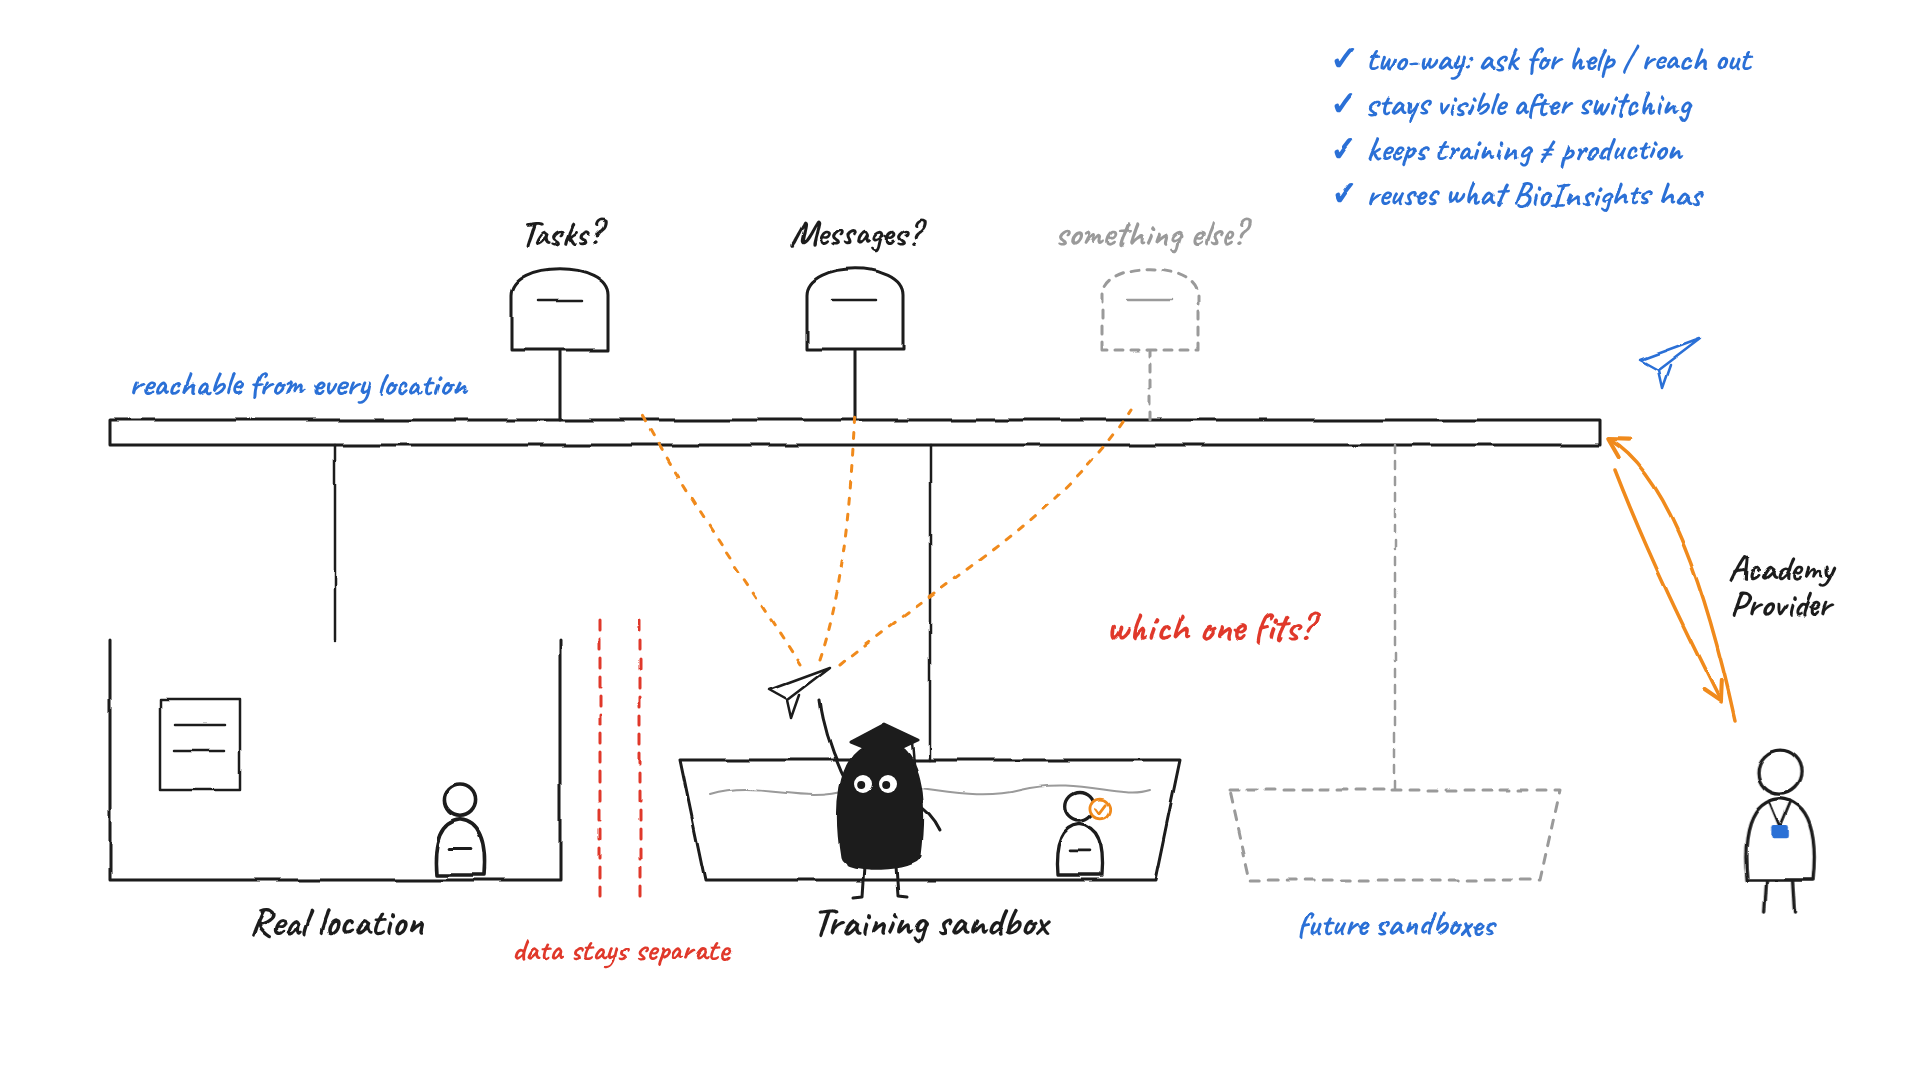
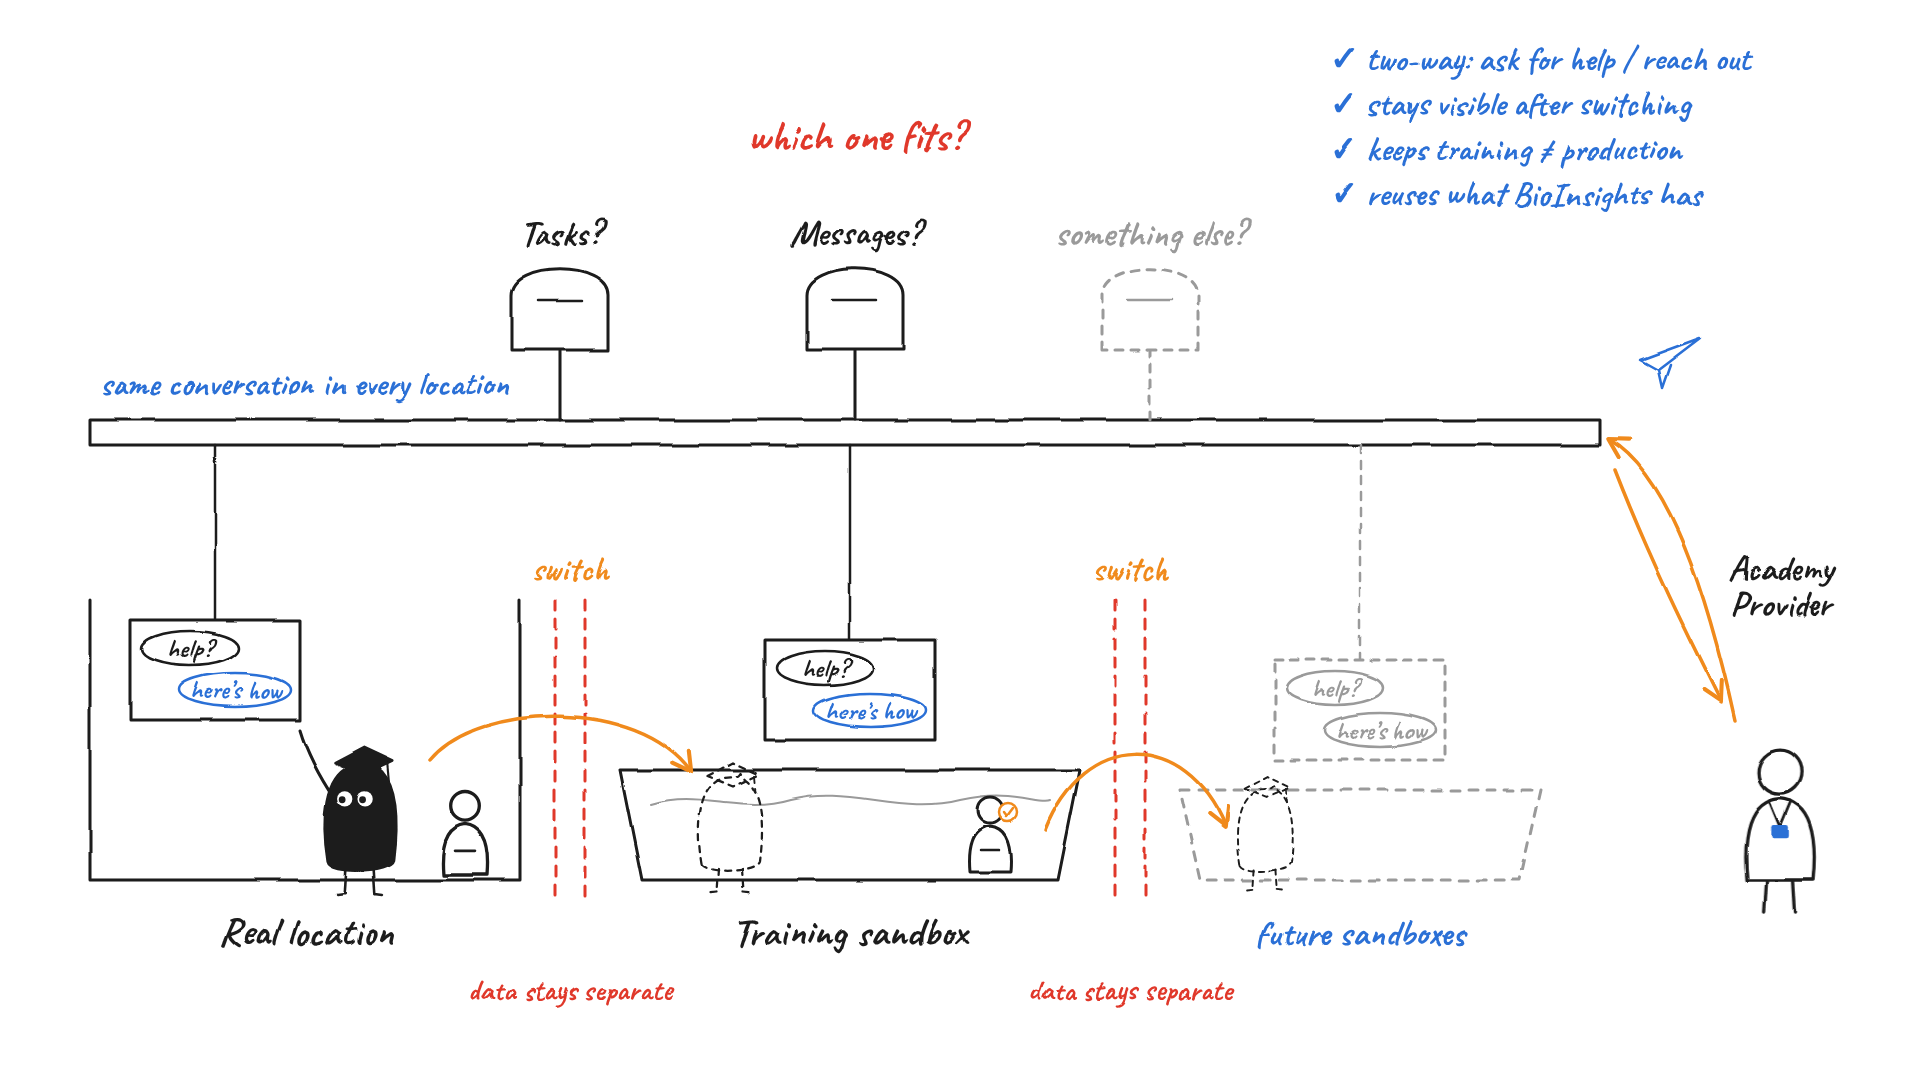
Show conversation in every location in illustration 06
Add a data-separation wall between the training sandbox and future
sandboxes, and hang the same conversation panel from the bridge into
each location with the student switching between them, so the
exchange no longer looks tied to the training sandbox.

Claude-Session: https://claude.ai/code/session_01BK3x3K9u71a5hHa67wnx18

diff --git a/assets/bioinsights-academy-illustrations/source/scene6.js b/assets/bioinsights-academy-illustrations/source/scene6.js
@@ -1,4 +1,4 @@
-// 06 — Open question: where should student <-> provider communication live so it survives switching?
+// 06 — Open question: where should student <-> provider communication live so it shows in every location?
 const { C, text, path, arrow, xh, doll, staff } = require('./lib');
 
 function mailbox(x, y, label, color = C.ink, dash = '') {
@@ -11,45 +11,68 @@ function mailbox(x, y, label, color = C.ink, dash = '') {
 const plane = (x, y, color = C.ink) =>
   path(`M${x},${y} L${x + 60},${y - 22} L${x + 18},${y + 10} Z M${x + 18},${y + 10} L${x + 22},${y + 28} L${x + 30},${y + 5}`, { color, fill: '#fff', w: 2.5 });
 
+// The same conversation, hung from the bridge into a location
+function convo(cx, top, o = {}) {
+  const { faded = false } = o;
+  const ink = faded ? C.grey : C.ink, blue = faded ? C.grey : C.blue, dash = faded ? '8 8' : '';
+  let g = path(`M${cx},445 L${cx},${top}`, { w: 2.5, color: ink, dash });
+  g += path(`M${cx - 85},${top} L${cx + 85},${top} L${cx + 85},${top + 100} L${cx - 85},${top + 100} Z`, { fill: '#fff', color: ink, dash });
+  g += `<ellipse cx="${cx - 25}" cy="${top + 28}" rx="48" ry="17" fill="#fff" stroke="${ink}" stroke-width="2.5"/>`;
+  g += text(cx - 25, top + 37, 'help?', { size: 26, color: ink });
+  g += `<ellipse cx="${cx + 20}" cy="${top + 70}" rx="56" ry="17" fill="#fff" stroke="${blue}" stroke-width="2.5"/>`;
+  g += text(cx + 20, top + 79, 'here’s how', { size: 26, color: blue });
+  return g;
+}
+
+function wall(x) {
+  return path(`M${x - 15},600 L${x - 15},900 M${x + 15},600 L${x + 15},900`, { color: C.red, w: 3, dash: '10 9' }) +
+    text(x, 1000, 'data stays separate', { size: 30, color: C.red });
+}
+
 let s = '';
 
-// Locations on the ground
-s += path('M110,640 L110,880 L560,880 L560,640');
-s += doll(460, 875, 1.2);
-s += path('M160,700 L240,700 L240,790 L160,790 Z M175,725 L225,725 M175,750 L225,750', { w: 2.5 });
-s += text(335, 935, 'Real location', { size: 40, weight: 700 });
-
-s += path('M600,620 L600,900 M640,620 L640,900', { color: C.red, w: 3, dash: '10 9' });
-s += text(620, 960, 'data stays separate', { size: 32, color: C.red });
-
-s += path('M680,760 L1180,760 L1155,880 L705,880 Z', { fill: '#fff' });
-s += path('M710,795 C760,780 800,805 850,790 C910,775 960,805 1020,790 C1080,776 1120,800 1150,790', { w: 2, color: C.grey });
-s += doll(1080, 875, 1.1, { copy: true });
-s += text(930, 935, 'Training sandbox', { size: 40, weight: 700 });
-
-s += path('M1230,790 L1560,790 L1540,880 L1250,880 Z', { color: C.grey, dash: '9 9' });
-s += text(1395, 935, 'future sandboxes', { size: 34, color: C.blue });
-
 // The bridge above every location
-s += path('M110,420 L1600,420 L1600,445 L110,445 Z', { fill: '#fff' });
-s += path('M335,445 L335,640 M930,445 L930,760', { w: 2.5 });
-s += path('M1395,445 L1395,790', { w: 2.5, color: C.grey, dash: '8 8' });
-s += text(130, 395, 'reachable from every location', { size: 34, color: C.blue, anchor: 'start' });
+s += path('M90,420 L1600,420 L1600,445 L90,445 Z', { fill: '#fff' });
+s += text(100, 395, 'same conversation in every location', { size: 34, color: C.blue, anchor: 'start' });
 
 // Candidate homes for the conversation
+s += text(855, 150, 'which one fits?', { size: 42, color: C.red, weight: 700 });
 s += mailbox(560, 420, 'Tasks?');
 s += mailbox(855, 420, 'Messages?');
 s += mailbox(1150, 420, 'something else?', C.grey, '8 8');
 
-// Xiaohei (the student) holds up a question, deciding where it goes
-s += xh(880, 870, 1, { cap: true, look: -3, arms: [[850, 790, 820, 700, -10], [912, 800, 940, 830, 6]] });
-s += plane(770, 690);
-s += path('M800,665 C760,600 700,520 640,410', { color: C.orange, w: 3, dash: '6 10' });
-s += path('M820,660 C840,600 850,520 855,410', { color: C.orange, w: 3, dash: '6 10' });
-s += path('M840,665 C930,590 1060,520 1130,410', { color: C.orange, w: 3, dash: '6 10' });
-s += text(1210, 640, 'which one fits?', { size: 40, color: C.red, weight: 700 });
+// Real location — the student is here right now
+s += path('M90,600 L90,880 L520,880 L520,600');
+s += convo(215, 620);
+s += xh(360, 872, 0.85, { cap: true, look: -5, arms: [[335, 800, 300, 730, -8]] });
+s += doll(465, 875, 1.1);
+s += text(305, 945, 'Real location', { size: 40, weight: 700 });
 
-// Provider on the far side — two-way
+s += wall(570);
+
+// Training sandbox — same conversation waiting
+s += path('M620,770 L1080,770 L1058,880 L642,880 Z', { fill: '#fff' });
+s += path('M650,805 C700,790 740,815 790,800 C850,785 900,815 960,800 C1010,788 1040,805 1050,800', { w: 2, color: C.grey });
+s += convo(850, 640);
+s += xh(730, 872, 0.75, { ghost: true, cap: true });
+s += doll(990, 872, 1, { copy: true });
+s += text(850, 945, 'Training sandbox', { size: 40, weight: 700 });
+
+s += wall(1130);
+
+// Future sandboxes — same conversation there too
+s += path('M1180,790 L1540,790 L1520,880 L1200,880 Z', { color: C.grey, dash: '9 9' });
+s += convo(1360, 660, { faded: true });
+s += xh(1265, 872, 0.65, { ghost: true, cap: true });
+s += text(1360, 945, 'future sandboxes', { size: 36, color: C.blue });
+
+// The student moves; the conversation doesn't
+s += arrow('M430,760 C480,700 640,700 690,770');
+s += arrow('M1045,830 C1085,730 1185,730 1225,825');
+s += text(570, 580, 'switch', { size: 34, color: C.orange });
+s += text(1130, 580, 'switch', { size: 34, color: C.orange });
+
+// Provider on the far side — two-way, never enters a location
 s += staff(1780, 880, 1.1);
 s += arrow('M1735,720 C1700,560 1660,470 1610,440', C.orange);
 s += arrow('M1615,470 C1650,560 1690,640 1720,700', C.orange);
